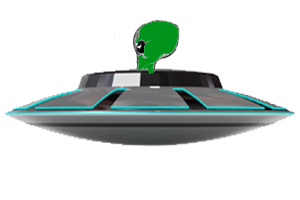
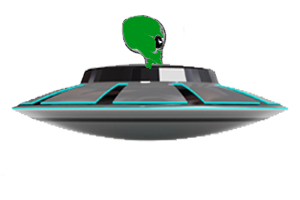
Пытался отладить. Хер бы там.

Changed region(s): [[0.0, 0.06, 0.99, 0.75]]

diff --git a/uniwhapeal/src/source/choosepersonage.java b/uniwhapeal/src/source/choosepersonage.java
@@ -32,6 +32,10 @@ public class choosepersonage extends javax.swing.JFrame {
     public void player1IsReady(int fighterId) throws IOException {
         player1Ready = true;
         player1fighterId = fighterId;
+        jButton1.enable(false);
+        jButton2.enable(false);
+        jButton3.enable(false);
+        jButton4.enable(false);
         jLabel3.setBounds(500, 200, 200, 100);
         jLabel3.setText("    READY");
         jLabel3.setHorizontalAlignment(JLabel.CENTER);
@@ -164,13 +168,13 @@ public class choosepersonage extends javax.swing.JFrame {
                 .addGroup(layout.createParallelGroup(javax.swing.GroupLayout.Alignment.LEADING)
                     .addGroup(layout.createSequentialGroup()
                         .addGroup(layout.createParallelGroup(javax.swing.GroupLayout.Alignment.LEADING)
-                            .addComponent(jButton1)
-                            .addComponent(jButton2))
-                        .addGap(18, 18, 18)
+                            .addComponent(jButton2)
+                            .addComponent(jButton1, javax.swing.GroupLayout.Alignment.TRAILING))
+                        .addPreferredGap(javax.swing.LayoutStyle.ComponentPlacement.UNRELATED)
                         .addGroup(layout.createParallelGroup(javax.swing.GroupLayout.Alignment.LEADING)
                             .addGroup(layout.createSequentialGroup()
                                 .addComponent(jButton3)
-                                .addPreferredGap(javax.swing.LayoutStyle.ComponentPlacement.RELATED, 38, Short.MAX_VALUE)
+                                .addPreferredGap(javax.swing.LayoutStyle.ComponentPlacement.RELATED, 46, Short.MAX_VALUE)
                                 .addComponent(jButton5))
                             .addGroup(layout.createSequentialGroup()
                                 .addComponent(jButton4)

diff --git a/uniwhapeal/src/source/player.java b/uniwhapeal/src/source/player.java
@@ -37,13 +37,13 @@ public class player {
     }
     
     public void loadFighterImg(int fighterId) throws IOException {
-        if(fighterId == 1 && isleft) fighterImg = ImageIO.read(new File("./src/source/img/unicorn.png"));
+        if(fighterId == 1 && isleft) fighterImg = ImageIO.read(new File("./src/source/img/unicorn1.png"));
         if(fighterId == 1 && !isleft) fighterImg = ImageIO.read(new File("./src/source/img/unicorn1.png"));
-        if(fighterId == 2 && isleft) fighterImg = ImageIO.read(new File("./src/source/img/ufo.png"));
+        if(fighterId == 2 && isleft) fighterImg = ImageIO.read(new File("./src/source/img/ufo1.png"));
         if(fighterId == 2 && !isleft) fighterImg = ImageIO.read(new File("./src/source/img/ufo1.png"));
-        if(fighterId == 3 && isleft) fighterImg = ImageIO.read(new File("./src/source/img/penguin.png"));
+        if(fighterId == 3 && isleft) fighterImg = ImageIO.read(new File("./src/source/img/penguin1.png"));
         if(fighterId == 3 && !isleft) fighterImg = ImageIO.read(new File("./src/source/img/penguin1.png"));
-        if(fighterId == 4 && isleft) fighterImg = ImageIO.read(new File("./src/source/img/whale.png"));
+        if(fighterId == 4 && isleft) fighterImg = ImageIO.read(new File("./src/source/img/whale1.png"));
         if(fighterId == 4 && !isleft) fighterImg = ImageIO.read(new File("./src/source/img/whale1.png"));
     }
     public void drawPlayer(Graphics gr) {
